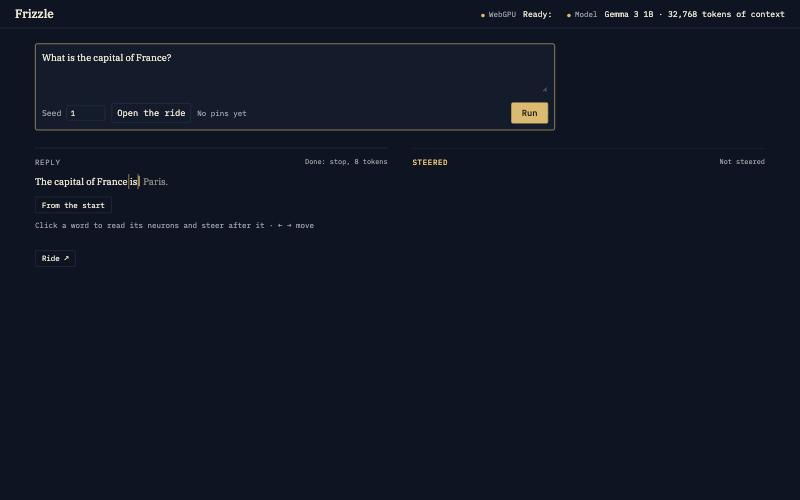
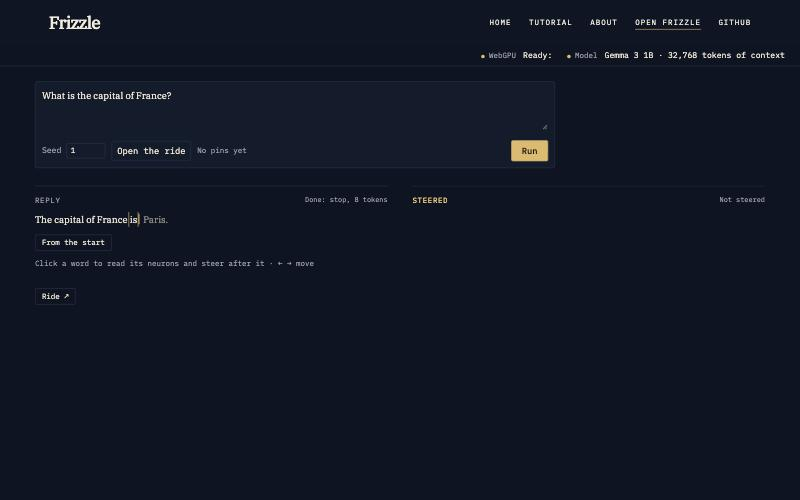
Animate the way from the site into the app
Opening the app from Home is now a cross-document view transition: the family
masthead stays still, the ivory page gives way to the night, and the banner
zooms into its lit pane and fades into the app. The app carries the site's
masthead so the two line up, with its status on a line beneath. Other pages
crossfade. Reduced motion, or a browser without the feature, gets an ordinary
page load.

The app's opt-in sits in index.html because a stylesheet can arrive after the
first paint, which skipped the transition about one time in three.

diff --git a/app/index.html b/app/index.html
@@ -4,8 +4,77 @@
     <meta charset="UTF-8" />
     <meta name="viewport" content="width=device-width, initial-scale=1.0" />
     <title>Frizzle</title>
+    <!-- Hold the first paint until the masthead below has been read. -->
+    <link rel="expect" href="#root" blocking="render" />
+    <!-- The hand-over from the site. A cross-document view transition is
+         styled by the page being entered, and must be opted into before its
+         first paint, so these rules are here and not in the stylesheet the
+         build links. The site's banner (named in web/assets/site.css) zooms
+         toward the lit pane and fades as the ivory gives way to the night. A
+         browser without the feature, or a person who asks for less motion,
+         gets an ordinary page load. -->
+    <style>
+      html {
+        background: #0d1422;
+      }
+      @media (prefers-reduced-motion: no-preference) {
+        @view-transition {
+          navigation: auto;
+        }
+        ::view-transition-group(masthead) {
+          z-index: 3;
+        }
+        ::view-transition-group(banner) {
+          z-index: 2;
+          animation: none;
+        }
+        ::view-transition-old(banner) {
+          transform-origin: 47% 40%;
+          animation: into-the-pane 950ms cubic-bezier(0.5, 0, 0.75, 0) both;
+        }
+        ::view-transition-old(root) {
+          animation: day-leaves 350ms ease both;
+        }
+        ::view-transition-new(root) {
+          animation: night-arrives 450ms ease 500ms both;
+        }
+      }
+      @keyframes into-the-pane {
+        55% {
+          opacity: 1;
+        }
+        to {
+          opacity: 0;
+          transform: scale(4.2);
+        }
+      }
+      @keyframes day-leaves {
+        to {
+          opacity: 0;
+        }
+      }
+      @keyframes night-arrives {
+        from {
+          opacity: 0;
+        }
+      }
+    </style>
   </head>
   <body>
+    <!-- The family masthead, the site's (web/layouts/_default/baseof.html), in
+         the page itself so it is there for the hand-over's first frame. -->
+    <header class="family-masthead">
+      <div class="family-mast">
+        <a class="family-brand" href="../">Frizzle</a>
+        <nav aria-label="Site">
+          <a href="../">Home</a>
+          <a href="../tutorial/">Tutorial</a>
+          <a href="../about/">About</a>
+          <a href="./" aria-current="page">Open Frizzle</a>
+          <a href="https://github.com/plainsight-systems/frizzle">GitHub</a>
+        </nav>
+      </div>
+    </header>
     <div id="root"></div>
     <script type="module" src="/src/main.tsx"></script>
   </body>

diff --git a/app/src/App.tsx b/app/src/App.tsx
@@ -4,8 +4,9 @@
 //
 // Contract
 //   - App({session}): renders, on night glass (theme/), for that session:
-//       header   "Frizzle"; status "WebGPU" and status "Model" (their words
-//                below), the model's with a progress bar while it loads.
+//       header   status "WebGPU" and status "Model" (their words below),
+//                the model's with a progress bar while it loads, under the
+//                family masthead, which is the page's own (index.html).
 //                Load model itself is on the prompt (views/prompt/), where
 //                the person starts.
 //       page     the conversation (views/prompt/): the prompt, then the
@@ -14,7 +15,8 @@
 //                window, opened from the prompt's "Open neurons" or a
 //                reply's "Ride" button, at the branch point, on the Ride
 //                or the layer deck.
-//                While it is open the page behind it is inert. Close or Esc
+//                While it is open the page behind it, the family masthead
+//                included, is inert. Close or Esc
 //                closes it; its Run runs and closes it, so the replies show
 //                as they stream; the Ride's steer runs and leaves it open.
 //   - status "WebGPU": "Waiting for the GPU" | "Ready: {adapter}" |
@@ -42,7 +44,7 @@
 //     side by side each was too narrow. The workbench is drawn only while
 //     open, so the GPU does not draw the deck behind the replies.
 
-import { useState, useSyncExternalStore } from "react";
+import { useEffect, useState, useSyncExternalStore } from "react";
 
 import pin from "../../config/model.json" with { type: "json" };
 import type { Edit } from "./engine/edits.ts";
@@ -78,6 +80,10 @@ export function App({ session }: { readonly session: Session }) {
   const [view, setView] = useState<View>("ride");
   const [front, setFront] = useState(0);
   const [selection, setSelection] = useState<Selection | null>(null);
+  // The masthead is index.html's, outside React's tree.
+  useEffect(() => {
+    document.querySelector(".family-masthead")?.toggleAttribute("inert", open);
+  }, [open]);
   const { device, model } = state;
   const canLoad =
     device.kind === "ready" &&
@@ -103,8 +109,7 @@ export function App({ session }: { readonly session: Session }) {
   return (
     <div className="frame">
       <div className="page" inert={open}>
-        <header className="masthead">
-          <b className="wordmark">Frizzle</b>
+        <header className="status-bar">
           <span className="pill">
             WebGPU <output aria-label="WebGPU">{deviceText(device)}</output>
           </span>

diff --git a/app/src/theme/theme.css b/app/src/theme/theme.css
@@ -11,6 +11,8 @@
  *       --ink      #eee6d3  text
  *       --muted    #9aa0a8  labels and secondary text
  *       --accent   #e2b866  focus, the chosen option
+ *       --mast, --mast-ink, --mast-accent  #0e1524, #f1ebdc, #d4ad5a  the
+ *                  family masthead, the site's colours
  *       --edit     #ffcf73  what an edit changed: the steered reply, a pin
  *       --cool     #9fc0e8  negative values in text
  *       --serif    "Plex Serif", Georgia, serif
@@ -85,6 +87,9 @@
   --ink: #eee6d3;
   --muted: #9aa0a8;
   --accent: #e2b866;
+  --mast: #0e1524;
+  --mast-ink: #f1ebdc;
+  --mast-accent: #d4ad5a;
   --edit: #ffcf73;
   --cool: #9fc0e8;
   --serif: "Plex Serif", Georgia, serif;
@@ -201,19 +206,70 @@ fieldset > div {
 }
 
 /* The frame */
-.masthead {
+/* The family masthead (index.html): the same size and place as the site's
+   (web/assets/site.css), so it stays still through the hand-over. */
+.family-masthead {
+  background: var(--mast);
+  color: var(--mast-ink);
+  view-transition-name: masthead;
+}
+.family-mast {
+  display: flex;
+  flex-wrap: wrap;
+  align-items: center;
+  justify-content: space-between;
+  gap: 8px 28px;
+  max-width: 1180px;
+  min-height: 72px;
+  margin: 0 auto;
+  padding: 12px 28px;
+}
+.family-brand {
+  color: inherit;
+  font: 500 28px/1 var(--serif);
+  letter-spacing: -0.05em;
+  text-decoration: none;
+}
+.family-mast nav {
+  display: flex;
+  flex-wrap: wrap;
+  gap: 4px 28px;
+  font: 12px var(--mono);
+  letter-spacing: 0.13em;
+  text-transform: uppercase;
+}
+.family-mast nav a {
+  padding: 8px 0;
+  color: inherit;
+  text-decoration: none;
+}
+.family-mast nav a[aria-current="page"] {
+  text-decoration: underline;
+  text-decoration-color: var(--mast-accent);
+  text-underline-offset: 0.5em;
+}
+.family-mast a:hover {
+  color: var(--mast-accent);
+}
+.family-mast a:focus-visible {
+  outline: 2px solid var(--mast-accent);
+  outline-offset: 3px;
+}
+@media (max-width: 600px) {
+  .family-mast {
+    padding-inline: 16px;
+  }
+}
+
+.status-bar {
   display: flex;
   align-items: center;
+  justify-content: flex-end;
   gap: 1.5rem;
-  padding: 10px 24px;
+  padding: 8px 24px;
   border-bottom: 1px solid var(--rule);
   font: 12px var(--mono);
   color: var(--muted);
-}
-.wordmark {
-  font: 500 19px var(--serif);
-  color: var(--ink);
-  margin-right: auto;
 }
 .pill::before {
   content: "●";
@@ -225,7 +281,7 @@ fieldset > div {
   color: var(--ink);
   margin-left: 4px;
 }
-.masthead progress {
+.status-bar progress {
   width: 120px;
   height: 4px;
   margin-left: 10px;

diff --git a/web/assets/site.css b/web/assets/site.css
@@ -25,6 +25,11 @@
  *     ivory.
  *   - Light only: the site's pages are ivory by the family's design; the
  *     app is the night.
+ *   - Moving between pages is a cross-document view transition unless less
+ *     motion is asked for: the masthead (also the app's) stays put and the
+ *     rest crossfades. The banner has a name of its own for the app's
+ *     hand-over, whose animation is in the app's index.html, the page being
+ *     entered.
  */
 
 @font-face {
@@ -60,6 +65,12 @@
   --gutter: 28px;
 }
 
+@media (prefers-reduced-motion: no-preference) {
+  @view-transition {
+    navigation: auto;
+  }
+}
+
 * {
   box-sizing: border-box;
 }
@@ -91,6 +102,7 @@ a:focus-visible {
 .masthead {
   background: var(--night);
   color: var(--cream);
+  view-transition-name: masthead;
 }
 .mast {
   display: flex;
@@ -142,6 +154,7 @@ a:focus-visible {
   background: var(--night);
 }
 .hero img {
+  view-transition-name: banner;
   display: block;
   width: 100%;
   max-width: 1260px;

diff --git a/tests/integration/site/test_site.py b/tests/integration/site/test_site.py
@@ -11,6 +11,9 @@ base URL with a path (https://example.test/frizzle/), holds:
     the engine's module), resolves to a file inside the output, under the
     base's path;
   - the engine's module the wasm-release build made, the same bytes, once;
+  - the hand-over into the app in place: the site's stylesheet and the app's
+    index opt in to view transitions, both name the masthead, the app's index
+    holds that masthead and animates the banner the site names;
   - on each of those pages, a title, a description, the canonical URL
     of the page itself, and a share image that is a 1200 × 630 JPEG inside
     the output, with its alt text.
@@ -161,6 +164,18 @@ class SiteBuild(unittest.TestCase):
         self.assertEqual(len(modules), 1, modules)
         built = ROOT / 'build' / 'wasm-release' / 'web' / 'frizzle.wasm'
         self.assertEqual(modules[0].read_bytes(), built.read_bytes())
+
+    def test_the_hand_over_into_the_app_is_in_place(self):
+        site = ''.join(p.read_text() for p in self.out.glob('*.css'))
+        app = ''.join(p.read_text() for p in (self.out / 'app').rglob('*.css'))
+        index = (self.out / 'app' / 'index.html').read_text()
+        for text in (site, index):
+            self.assertRegex(text, r'@view-transition\s*\{\s*navigation:\s*auto')
+        for sheet in (site, app):
+            self.assertRegex(sheet, r'view-transition-name:\s*masthead')
+        self.assertRegex(site, r'view-transition-name:\s*banner')
+        self.assertIn('::view-transition-old(banner)', index)
+        self.assertIn('family-masthead', index)
 
     def test_every_page_carries_its_metadata_and_share_image(self):
         for page in sorted(PAGES):

diff --git a/web/README.md b/web/README.md
@@ -27,5 +27,10 @@ what they need.
 `.github/workflows/site.yml` builds and checks the site on every pull request
 and publishes it to GitHub Pages from `main`, at the address in `hugo.toml`.
 
+Going from Home into the app is a view transition: the masthead stays, the
+banner zooms into its lit pane, and the ivory gives way to the app's night.
+The site's stylesheet names the parts; the animation is in the app's
+(`../app/index.html`), since the page being entered styles it.
+
 Everything under `content/`, `layouts/` and `assets/` is public. The site
 has no client-side script of its own, no analytics and no cookies.
